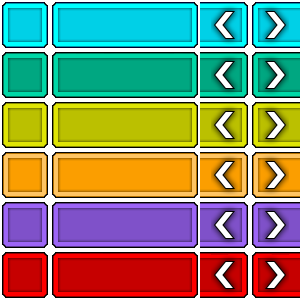
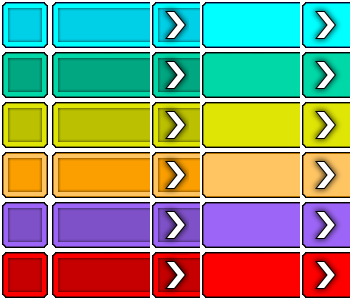
Added new box textures, removal on scanline exit

diff --git a/skideets/js/main.js b/skideets/js/main.js
@@ -19,7 +19,13 @@ const SEGMENT = {
     MIDDLE: 2,
     RIGHT: 3,
     offset: function(segment) {
+        if (segment === SEGMENT.RIGHT) {
+            return 1;
+        }
         return segment;
+    },
+    flipX: function(segment) {
+        return [false, false, false, true][segment];
     }
 };
 const COLORS = {
@@ -65,7 +71,7 @@ let LoadScene = new Phaser.Class({
         this.load.spritesheet('boxes', 'assets/Boxes.png', { frameWidth: 50, frameHeight: 50 });
         this.load.image('grid', 'assets/Play Grid/EmptyGrid01.png');
         this.load.image('player_controller', 'assets/Play Grid/PlayerController.png');
-        this.load.image('grey_arrow', 'assets/Boxes/Grey/GreyArrow_Left.png');
+        this.load.image('grey_arrow', 'assets/Boxes/Grey/GreyArrow_Right.png');
         this.load.image('grey_box', 'assets/Boxes/Grey/Unused/Grey_Single.png');
         this.load.image('scanline', 'assets/Play Grid/R_Scanline.png');
 
@@ -122,8 +128,13 @@ let GameScene = new Phaser.Class({
         let set_block_texture = function(square) {
             let color = square.data.values.color;
             if (COLORS.isColor(color)) {
-                let offset = SEGMENT.offset(square.data.values.segment);
-                square.setTexture('boxes', color*6 + offset).setFlipX(false);
+                let segment = square.data.values.segment;
+                let offset = SEGMENT.offset(segment);
+                if (square.data.values.locked) {
+                    offset += 3;
+                }
+                let flipX = SEGMENT.flipX(segment);
+                square.setTexture('boxes', color*7 + offset).setFlipX(flipX);
                 square.setVisible(true);
             } else {
                 if (square.data.values.arrow === ARROW.NONE) {
@@ -131,9 +142,13 @@ let GameScene = new Phaser.Class({
                     square.setVisible(false);
                 } else {
                     square.setTexture('grey_arrow')
-                        .setFlipX(ARROW.RIGHT === square.data.values.arrow);
+                        .setFlipX(ARROW.LEFT === square.data.values.arrow);
                     if (COLORS.isColor(square.data.values.arrow_color)) {
-                        square.setTexture('boxes', square.data.values.arrow_color*6 + 4);
+                        let offset = 3;
+                        if (square.data.values.locked) {
+                            offset += 3;
+                        }
+                        square.setTexture('boxes', square.data.values.arrow_color*7 + offset);
                     }
                     square.setVisible(true);
                 }
@@ -252,36 +267,37 @@ let GameScene = new Phaser.Class({
                 let square = grid[x][y];
                 let test_color = square.data.values.color;
                 if (left_test(x,y,test_color)) {
-                    square.setData('locked',false);
                     square.setData('segment', SEGMENT.LEFT);
+                    square.setData('locked', grid[x+1][y].data.values.locked);
                 } else if (middle_test(x,y,test_color)) {
-                    square.setData('locked',false);
                     square.setData('segment', SEGMENT.MIDDLE);
                 } else if (right_test(x,y,test_color)) {
-                    square.setData('locked',false);
                     square.setData('segment', SEGMENT.RIGHT);
+                    square.setData('locked', grid[x-1][y].data.values.locked);
                 } else {
-                    square.setData('locked',false);
                     square.setData('segment', SEGMENT.NONE);
                 }
             }
             //handle grey arrows
             for(let x = 0; x < GRID_COLS; x++) {
                 let square = grid[x][y];
+                let locked = square.data.values.locked;
                 square.setData('arrow_color', COLORS.COLORLESS);
                 let test_color = square.data.values.color;
                 if (!COLORS.isColor(test_color)) {
                     if (x !== 0 &&
                         square.data.values.arrow === ARROW.LEFT &&
-                        COLORS.isColor(grid[x-1][y].data.values.color) &&
-                        grid[x-1][y].data.values.segment === SEGMENT.RIGHT ) {
+                        COLORS.isColor(grid[x-1][y].data .values.color) &&
+                        grid[x-1][y].data.values.segment === SEGMENT.RIGHT &&
+                        grid[x-1][y].data.values.locked === locked) {
                         //end cap!!
                         grid[x - 1][y].setData('segment', SEGMENT.MIDDLE);
                         square.setData('arrow_color', grid[x-1][y].data.values.color);
                     } else if (x !== GRID_COLS -1  &&
                         square.data.values.arrow === ARROW.RIGHT &&
                         COLORS.isColor(grid[x+1][y].data.values.color) &&
-                        grid[x+1][y].data.values.segment === SEGMENT.LEFT) {
+                        grid[x+1][y].data.values.segment === SEGMENT.LEFT &&
+                        grid[x+1][y].data.values.locked === locked) {
                         grid[x+1][y].setData('segment', SEGMENT.MIDDLE);
                         square.setData('arrow_color', grid[x+1][y].data.values.color);
                     }
@@ -330,12 +346,13 @@ let GameScene = new Phaser.Class({
                 for(let x = 0; x < GRID_COLS; x++) {
                     //two things on most rows we...
                     if (y + 1 < GRID_ROWS) {
-                        //...shift squares up, but on the bottom...
+                        //...shift squares up, but...
                         let square = grid[x][y];
                         swap_squares(square, grid[x][y+1]);
                     } else {
-                        //...we add random blocks
-                        randomize_block(x, GRID_ROWS - 1);
+                        //...on the bottom row, add random blocks
+                        clear_block(grid[x][y]);
+                        randomize_block(x,y);
                     }
                 }
                 merge_squares(y);
@@ -358,27 +375,28 @@ let GameScene = new Phaser.Class({
             scanline.setPosition(gridX(scanlineX), SCREEN_HEIGHT/2)
         };
 
-        let scan_line = function(x, dx) {
+        let scan_line_enter = function(x, dx) {
             if (x < 0 || x >= GRID_COLS) {
                 return;
             }
             for (let y = 0; y < GRID_ROWS; y++) {
+                //test for locking
                 let square = grid[x][y];
                 let arrow_color = square.data.values.arrow_color;
                 let arrow = square.data.values.arrow;
                 if (arrow !== ARROW.NONE &&
-                    arrow_color !== COLORS.COLORLESS)
-                {
+                    arrow_color !== COLORS.COLORLESS) {
                     //match?
                     if (dx > 0 && arrow === ARROW.RIGHT ||
-                        dx < 0 && arrow === ARROW.LEFT)
-                    {
-                        clear_block(square);
+                        dx < 0 && arrow === ARROW.LEFT) {
+                        //clear_block(square);
+                        square.setData('locked', true);
                         let match_x = x + dx;
                         while (match_x >= 0 && match_x < GRID_COLS &&
                         grid[match_x][y].data.values.segment !== SEGMENT.NONE) {
                             square = grid[match_x][y];
-                            clear_block(square);
+                            //clear_block(square);
+                            square.setData('locked', true);
                             match_x += dx;
                         }
                         merge_squares(y);
@@ -387,7 +405,41 @@ let GameScene = new Phaser.Class({
             }
         };
 
+        let scan_line_exit = function(x, dx) {
+            if (x < 0 || x >= GRID_COLS) {
+                return;
+            }
+            for (let y = 0; y < GRID_ROWS; y++) {
+                //test for removal
+                let square = grid[x][y];
+                let arrow = square.data.values.arrow;
+                let segment = square.data.values.segment;
+                let locked = square.data.values.locked;
+                if (arrow === ARROW.NONE && locked) {
+                    if (dx > 0 && segment === SEGMENT.RIGHT ||
+                        dx < 0 && segment === SEGMENT.LEFT)
+                    {
+                        //march forward and clear through to arrow
+                        let finished = false;
+                        let match_x = x;
+                        while (match_x >= 0 && match_x < GRID_COLS && !finished) {
+                            if(grid[match_x][y].data.values.arrow !== ARROW.NONE) {
+                                finished = true;
+                            }
+                            clear_block(grid[match_x][y]);
+                            match_x -= dx;
+                        }
+
+                        merge_squares(y);
+                    }
+                }
+            }
+        };
+
         let update_scanline = function() {
+
+            scan_line_exit(scanlineX, scanlineDx);
+
             scanlineX += scanlineDx;
             if (scanlineX < 0 || scanlineX > GRID_COLS-1) {
                 scanlineDx *= -1;
@@ -400,8 +452,9 @@ let GameScene = new Phaser.Class({
             } else {
                 scanline.setFlipX(true);
             }
+
             set_scanline();
-            scan_line(scanlineX, scanlineDx);
+            scan_line_enter(scanlineX, scanlineDx);
         };
 
         //----------------------------------------------------------------------
